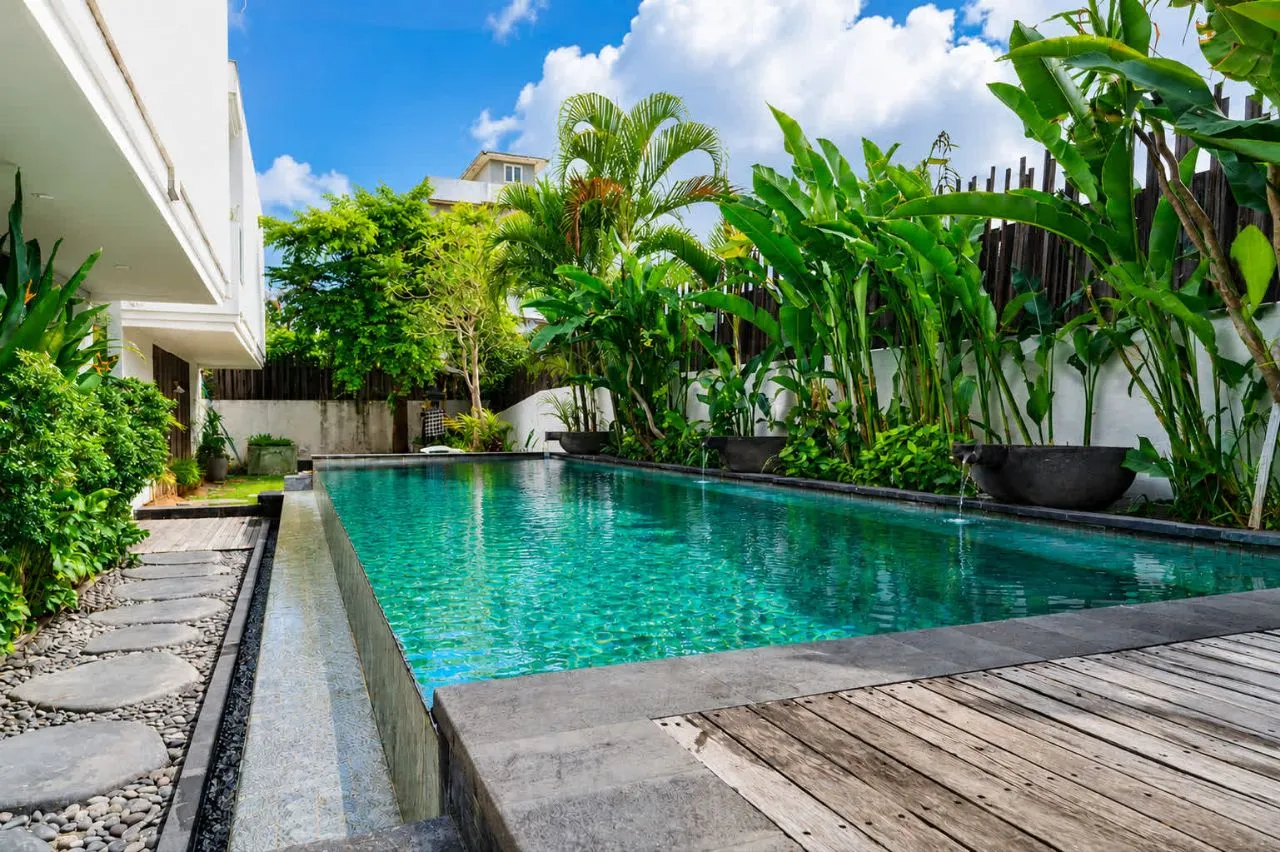
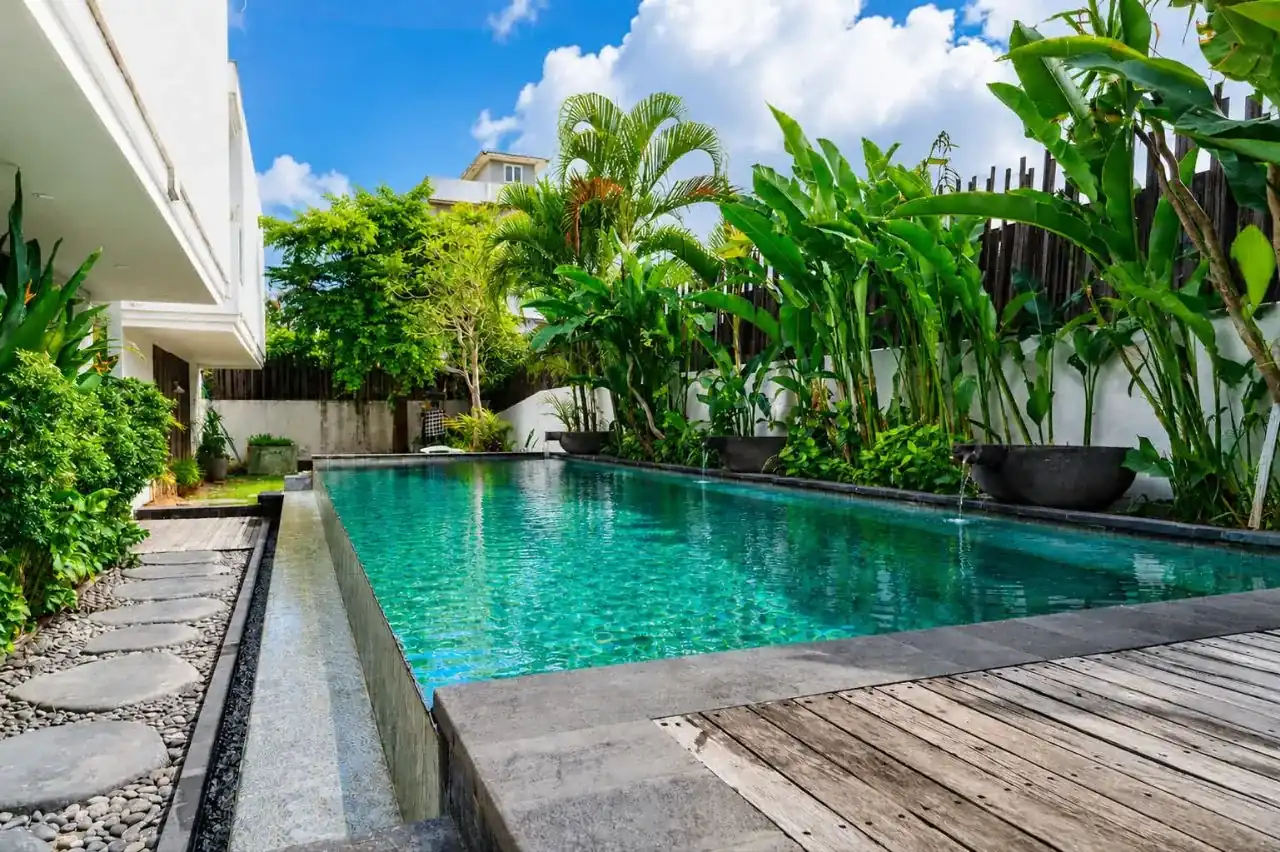
Optimize images and add explicit dimensions + main landmark
- Reconverted pool (q50, 224.8KB -> 129.5KB) and room-suite (resized to 1280w, 499KB -> 34.4KB)
- Added 128px header logo variant (logo-square-header.webp, 1.7KB) replacing 1254px source for the 56x56 header img
- Added width/height attributes to all <img> to prevent CLS
- Wrapped main content in <main> landmark for accessibility

diff --git a/index.html b/index.html
@@ -134,7 +134,7 @@
         <div class="container">
             <nav>
                 <a href="#" class="logo-container">
-                    <img src="images/logo-square.webp" alt="D'Green Niravakuta Logo" data-translate-alt="alt_logo" class="header-logo">
+                    <img src="images/logo-square-header.webp" alt="D'Green Niravakuta Logo" data-translate-alt="alt_logo" class="header-logo" width="45" height="45">
                     <span class="logo-text">D'Green <span>Niravakuta</span></span>
                 </a>
                 <div class="nav-right">
@@ -159,6 +159,7 @@
         </div>
     </header>
 
+    <main>
     <!-- Hero Section -->
     <section class="hero">
         <div class="hero-content container">
@@ -227,19 +228,19 @@
             </div>
             <div class="gallery-grid">
                 <div class="gallery-item gallery-item-large reveal">
-                    <img src="images/pool.webp" alt="Lush Pool Area" data-translate-alt="alt_pool" loading="lazy" decoding="async" data-lightbox="images/pool.webp" data-caption="Lush Pool Area">
+                    <img src="images/pool.webp" alt="Lush Pool Area" data-translate-alt="alt_pool" width="1280" height="852" loading="lazy" decoding="async" data-lightbox="images/pool.webp" data-caption="Lush Pool Area">
                 </div>
                 <div class="gallery-item reveal reveal-d1">
-                    <img src="images/room-junior-suite.webp" alt="Junior Suite Bedroom Design" data-translate-alt="alt_junior" loading="lazy" decoding="async" data-lightbox="images/room-junior-suite.webp" data-caption="Junior Suite Bedroom Design">
+                    <img src="images/room-junior-suite.webp" alt="Junior Suite Bedroom Design" data-translate-alt="alt_junior" width="1280" height="853" loading="lazy" decoding="async" data-lightbox="images/room-junior-suite.webp" data-caption="Junior Suite Bedroom Design">
                 </div>
                 <div class="gallery-item reveal reveal-d2">
-                    <img src="images/kitchen.webp" alt="Private Kitchenette" data-translate-alt="alt_kitchen" loading="lazy" decoding="async" data-lightbox="images/kitchen.webp" data-caption="Private Kitchenette">
+                    <img src="images/kitchen.webp" alt="Private Kitchenette" data-translate-alt="alt_kitchen" width="1280" height="853" loading="lazy" decoding="async" data-lightbox="images/kitchen.webp" data-caption="Private Kitchenette">
                 </div>
                 <div class="gallery-item reveal reveal-d1">
-                    <img src="images/bathroom.webp" alt="Modern Bathroom" data-translate-alt="alt_bathroom" loading="lazy" decoding="async" data-lightbox="images/bathroom.webp" data-caption="Modern Bathroom">
+                    <img src="images/bathroom.webp" alt="Modern Bathroom" data-translate-alt="alt_bathroom" width="1280" height="853" loading="lazy" decoding="async" data-lightbox="images/bathroom.webp" data-caption="Modern Bathroom">
                 </div>
                 <div class="gallery-item reveal reveal-d2">
-                    <img src="images/wardrobe.webp" alt="Teak Wardrobe and TV Console" data-translate-alt="alt_wardrobe" loading="lazy" decoding="async" data-lightbox="images/wardrobe.webp" data-caption="Teak Wardrobe and TV Console">
+                    <img src="images/wardrobe.webp" alt="Teak Wardrobe and TV Console" data-translate-alt="alt_wardrobe" width="1280" height="854" loading="lazy" decoding="async" data-lightbox="images/wardrobe.webp" data-caption="Teak Wardrobe and TV Console">
                 </div>
             </div>
         </div>
@@ -450,6 +451,7 @@
             </div>
         </div>
     </section>
+    </main>
 
     <!-- Footer -->
     <footer id="contact">
@@ -458,12 +460,12 @@
                 
                 <!-- Landscape Orientation Image: Square logo displayed on left -->
                 <div class="footer-logo-landscape-view">
-                    <img src="images/logo-square.webp" alt="D'Green Niravakuta Logo" data-translate-alt="alt_logo" loading="lazy" decoding="async">
+                    <img src="images/logo-square.webp" alt="D'Green Niravakuta Logo" data-translate-alt="alt_logo" width="1254" height="1254" loading="lazy" decoding="async">
                 </div>
 
                 <!-- Portrait Orientation Image: Landscape logo displayed above quick contact -->
                 <div class="footer-logo-portrait-view">
-                    <img src="images/logo-landscape.webp" alt="D'Green Niravakuta Logo" data-translate-alt="alt_logo" loading="lazy" decoding="async">
+                    <img src="images/logo-landscape.webp" alt="D'Green Niravakuta Logo" data-translate-alt="alt_logo" width="1280" height="640" loading="lazy" decoding="async">
                 </div>
 
                 <!-- Quick Contact Column -->
